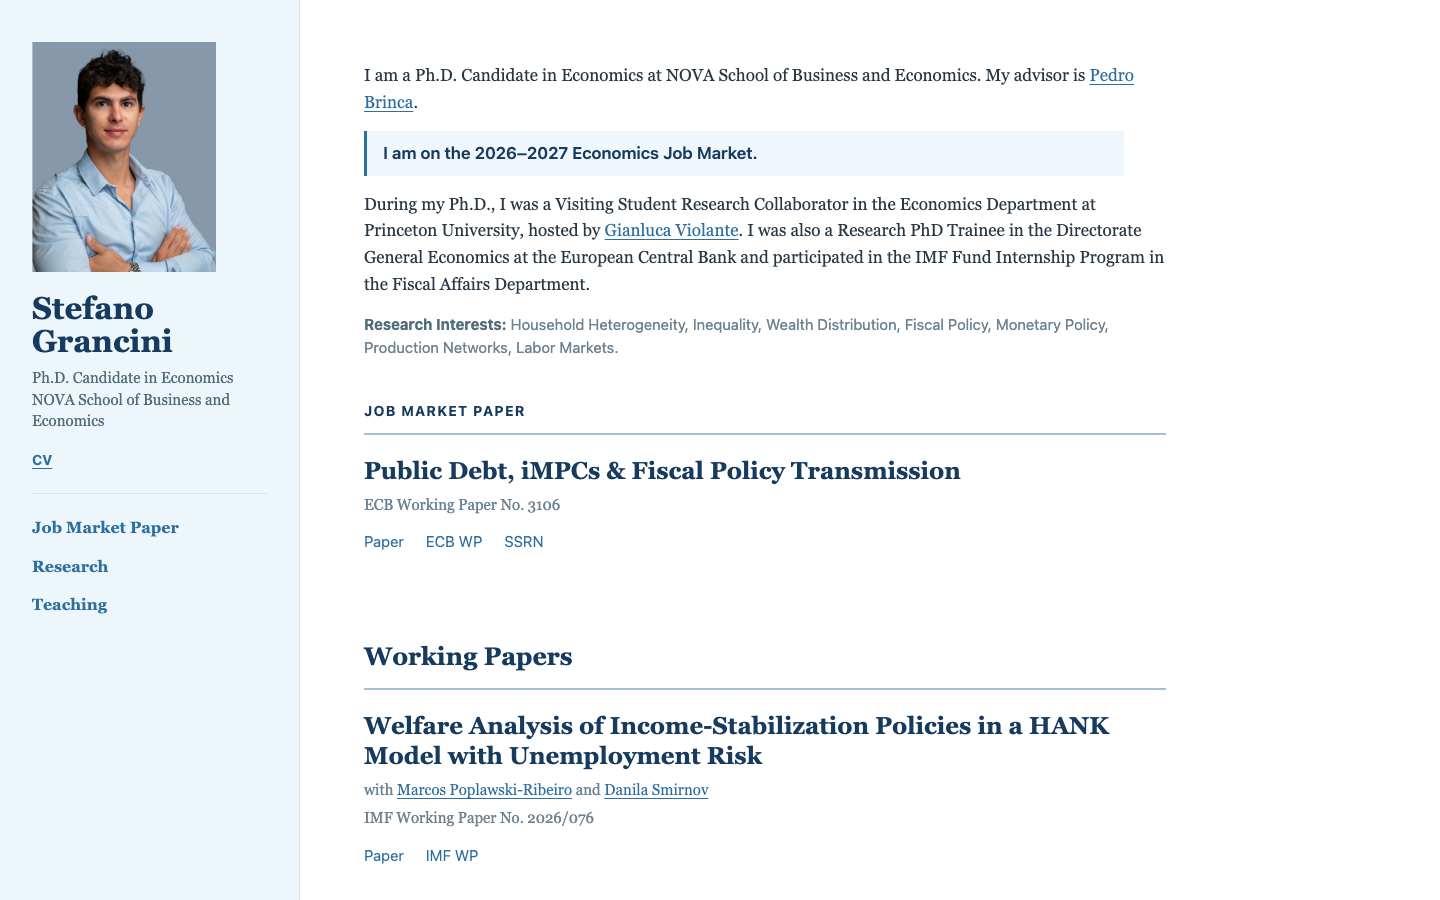
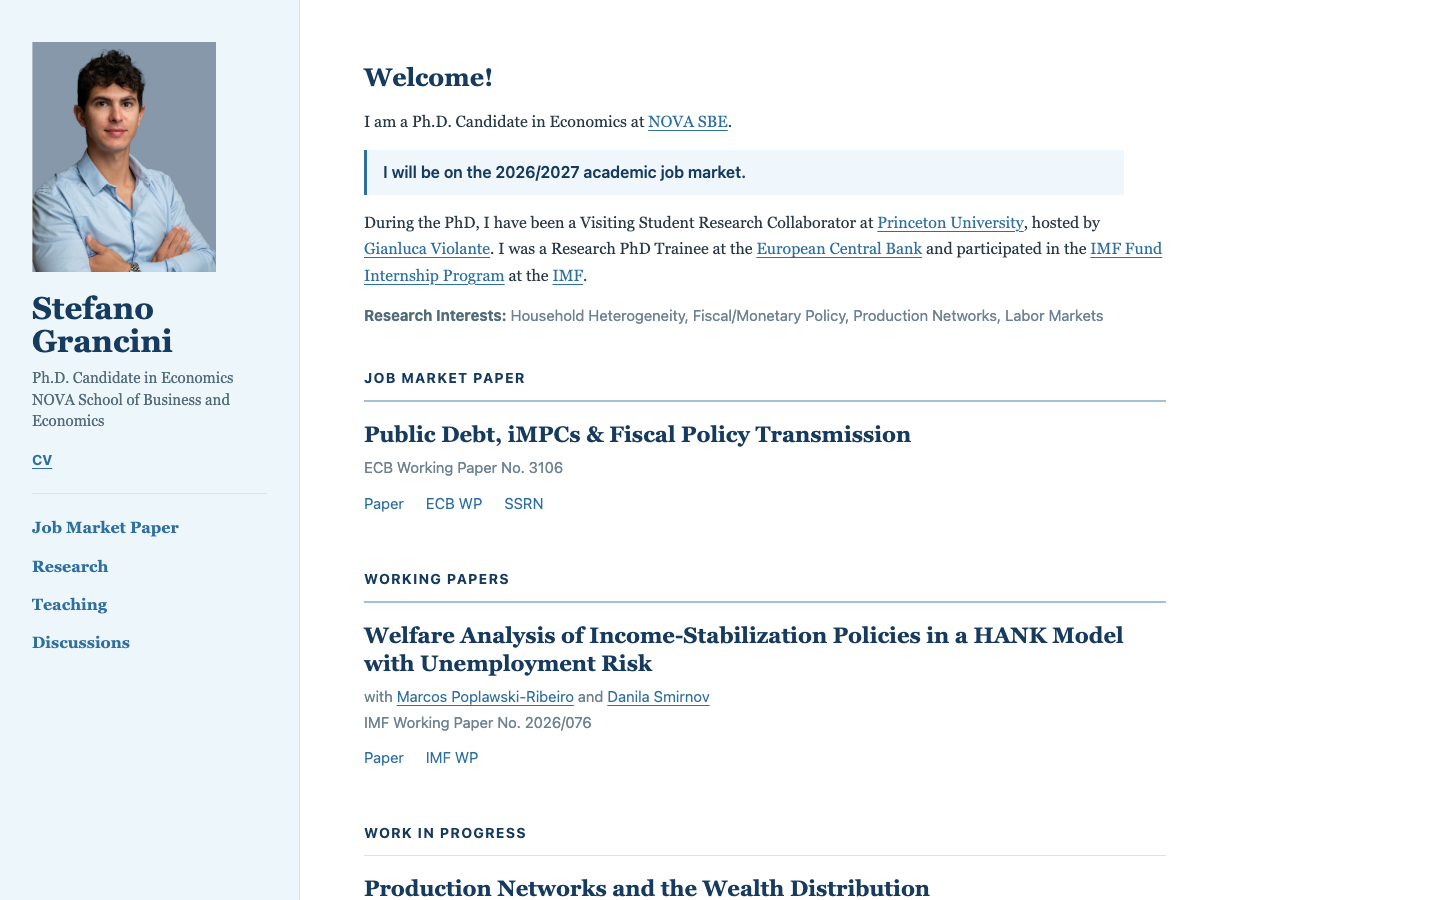
Refine typography and add discussions page

Changed region(s): [[0.25, 0.0622, 0.8125, 0.6533], [0.25, 0.6844, 0.7812, 0.9956], [0.0312, 0.6844, 0.0625, 0.7467]]

diff --git a/index.html b/index.html
@@ -17,15 +17,17 @@
         <a href="https://jmp.stefanograncini.com/paper.pdf">Job Market Paper</a>
         <a href="research/">Research</a>
         <a href="teaching/">Teaching</a>
+        <a href="discussions/">Discussions</a>
       </nav>
     </aside>
 
     <main class="content">
       <div class="intro">
-        <p>I am a Ph.D. Candidate in Economics at NOVA School of Business and Economics. My advisor is <a href="https://pedrobrinca.pt/research/">Pedro Brinca</a>.</p>
-        <p class="market">I am on the 2026–2027 Economics Job Market.</p>
-        <p>During my Ph.D., I was a Visiting Student Research Collaborator in the Economics Department at Princeton University, hosted by <a href="https://violante.economics.princeton.edu/">Gianluca Violante</a>. I was also a Research PhD Trainee in the Directorate General Economics at the European Central Bank and participated in the IMF Fund Internship Program in the Fiscal Affairs Department.</p>
-        <p class="interests"><strong>Research Interests:</strong> Household Heterogeneity, Inequality, Wealth Distribution, Fiscal Policy, Monetary Policy, Production Networks, Labor Markets.</p>
+        <h1 class="welcome-title">Welcome!</h1>
+        <p>I am a Ph.D. Candidate in Economics at <a href="https://www.novasbe.unl.pt/en/programs/phds/phd-in-economics-finance/overview">NOVA SBE</a>.</p>
+        <p class="market">I will be on the 2026/2027 academic job market.</p>
+        <p>During the PhD, I have been a Visiting Student Research Collaborator at <a href="https://www.princeton.edu/">Princeton University</a>, hosted by <a href="https://violante.economics.princeton.edu/">Gianluca Violante</a>. I was a Research PhD Trainee at the <a href="https://www.ecb.europa.eu/pub/economic-research/html/index.en.html">European Central Bank</a> and participated in the <a href="https://www.imf.org/en/About/Recruitment/working-at-the-imf/fund-internship-program">IMF Fund Internship Program</a> at the <a href="https://www.imf.org/en/Home">IMF</a>.</p>
+        <p class="interests"><strong>Research Interests:</strong> Household Heterogeneity, Fiscal/Monetary Policy, Production Networks, Labor Markets</p>
       </div>
 
       <section>
@@ -42,7 +44,7 @@
       </section>
 
       <section>
-        <h2 class="section-title">Working Papers</h2>
+        <h2 class="section-label">Working Papers</h2>
         <article class="paper">
           <h2>Welfare Analysis of Income-Stabilization Policies in a HANK Model with Unemployment Risk</h2>
           <p class="coauthors">with <a href="https://sites.google.com/site/marcospoplawskiribeiro/home">Marcos Poplawski-Ribeiro</a> and <a href="https://www.danilasmirnov.com/">Danila Smirnov</a></p>
@@ -53,7 +55,7 @@
           </div>
         </article>
 
-        <h2 class="section-title">Work in Progress</h2>
+        <h2 class="section-label">Work in Progress</h2>
         <article class="paper">
           <h2>Production Networks and the Wealth Distribution</h2>
           <p class="coauthors">with <a href="https://www.ecb.europa.eu/pub/research/authors/profiles/niccolo-battistini.en.html">Niccolò Battistini</a> and Martin Spitzer</p>
@@ -62,19 +64,13 @@
       </section>
 
       <section>
-        <h2 class="section-title">References</h2>
+        <h2 class="references-title">References</h2>
         <div class="refs">
-          <p><a href="https://pedrobrinca.pt/research/">Pedro Brinca</a> — NOVA SBE</p>
-          <p><a href="https://violante.economics.princeton.edu/">Gianluca Violante</a> — Princeton University</p>
-          <p><a href="https://scholar.google.com/citations?user=kx7wu10AAAAJ&amp;hl=it&amp;oi=ao">Davide Furceri</a> — International Monetary Fund</p>
-          <p><a href="https://jbduarte.com/">João Duarte</a> — NOVA SBE</p>
+          <p><a class="ref-name" href="https://pedrobrinca.pt/research/">Pedro Brinca</a><span class="ref-affiliation"> — NOVA SBE</span></p>
+          <p><a class="ref-name" href="https://violante.economics.princeton.edu/">Gianluca Violante</a><span class="ref-affiliation"> — Princeton University</span></p>
+          <p><a class="ref-name" href="https://scholar.google.com/citations?user=kx7wu10AAAAJ&amp;hl=it&amp;oi=ao">Davide Furceri</a><span class="ref-affiliation"> — IMF</span></p>
+          <p><a class="ref-name" href="https://jbduarte.com/">João Duarte</a><span class="ref-affiliation"> — NOVA SBE</span></p>
         </div>
-      </section>
-
-      <section class="teaching-preview">
-        <h2 class="section-title">Teaching</h2>
-        <p>Teaching Assistant at NOVA School of Business and Economics across Bachelor's and Master's courses.</p>
-        <p><a class="arrow-link" href="teaching/">Teaching <span aria-hidden="true">→</span></a></p>
       </section>
 
       <p class="contact"><a href="mailto:stefano.grancini@novasbe.pt">Contact</a></p>

diff --git a/assets/css/site.css b/assets/css/site.css
@@ -122,11 +122,17 @@ a:focus-visible {
 .intro {
   max-width: 810px;
   margin-bottom: 42px;
-  font-size: 17px;
-  line-height: 1.58;
+  font-size: 16px;
+  line-height: 1.65;
 }
 
 .intro p { margin: 0 0 15px; }
+
+.welcome-title {
+  margin: 0 0 17px;
+  color: var(--heading);
+  font: 700 25px/1.2 var(--serif);
+}
 
 .market {
   max-width: 760px;
@@ -165,8 +171,8 @@ a:focus-visible {
 }
 
 .paper {
-  margin: 0 0 33px;
-  padding: 21px 0 31px;
+  margin: 0 0 22px;
+  padding: 19px 0 21px;
   border-top: 1px solid var(--line);
 }
 
@@ -176,7 +182,7 @@ a:focus-visible {
 .teaching-entry h2 {
   margin: 0 0 7px;
   color: var(--heading);
-  font: 700 24px/1.25 var(--serif);
+  font: 700 22px/1.28 var(--serif);
 }
 
 .meta,
@@ -184,7 +190,7 @@ a:focus-visible {
 .presentations {
   margin: 3px 0;
   color: var(--muted);
-  font-size: 15px;
+  font: 15px/1.5 var(--sans);
 }
 
 .abstract {
@@ -208,45 +214,40 @@ summary {
   cursor: pointer;
 }
 
-.section-title {
-  margin: 45px 0 17px;
+.page-title {
+  margin: 0 0 17px;
+  color: var(--heading);
+  font: 700 30px/1.2 var(--serif);
+}
+
+.references-title {
+  margin: 44px 0 17px;
   color: var(--heading);
   font: 700 25px/1.2 var(--serif);
 }
 
-.page-title { margin-top: 0; font-size: 32px; }
-
 .refs {
   max-width: 680px;
-  columns: 2;
-  column-gap: 32px;
+  display: grid;
+  grid-template-columns: repeat(2, minmax(0, 1fr));
+  column-gap: 36px;
+  row-gap: 8px;
 }
 
 .refs p {
-  break-inside: avoid;
-  margin: 0 0 8px;
+  margin: 0;
 }
 
-.teaching-preview {
-  max-width: 700px;
-  margin-top: 46px;
-  padding-top: 1px;
-  border-top: 1px solid var(--line);
-}
-
-.teaching-preview .section-title { margin-top: 28px; }
-.teaching-preview p { margin: 0 0 10px; }
-.arrow-link { font-family: var(--sans); font-weight: 650; text-decoration: none; }
-.arrow-link:hover { text-decoration: underline; }
+.ref-name { font-weight: 700; }
+.ref-affiliation { color: var(--muted); font: 14px var(--sans); }
 .contact { margin: 34px 0 0; font-family: var(--sans); }
 
 .page-heading {
   margin-bottom: 32px;
 }
 
-.page-heading .section-title {
+.page-heading .page-title {
   margin: 0 0 8px;
-  font-size: 32px;
 }
 
 .page-heading p {
@@ -255,7 +256,8 @@ summary {
   font-family: var(--sans);
 }
 
-.teaching-list { max-width: 760px; }
+.teaching-list,
+.discussion-list { max-width: 760px; }
 
 .teaching-entry {
   padding: 20px 0 22px;
@@ -266,17 +268,16 @@ summary {
 
 .teaching-entry h2 { font-size: 21px; }
 
-.teaching-entry p {
+.teaching-entry p,
+.discussion-author {
   margin: 0;
   color: var(--muted);
   font: 15px/1.5 var(--sans);
 }
 
-.error-page h1 {
-  margin: 0 0 12px;
-  color: var(--heading);
-  font-size: 34px;
-}
+.discussion-list .paper { margin-bottom: 0; }
+
+.error-page .page-title { margin-bottom: 12px; }
 
 footer {
   margin-top: 45px;
@@ -315,15 +316,13 @@ footer {
   }
 
   .content { padding: 40px 28px; }
-  .intro { font-size: 17px; }
-  .paper h2 { font-size: 22px; }
-  .refs { columns: 1; }
+  .refs { grid-template-columns: 1fr; }
 }
 
 @media (max-width: 420px) {
   .rail { padding: 24px; }
   .content { padding: 34px 24px 40px; }
   .name { font-size: 29px; }
-  .section-title, .page-heading .section-title, .page-title { font-size: 28px; }
+  .page-title { font-size: 28px; }
   .market { margin-left: -4px; }
 }

diff --git a/discussions/index.html b/discussions/index.html
@@ -1,0 +1,48 @@
+<!doctype html>
+<html lang="en">
+<head>
+  <meta charset="utf-8">
+  <meta name="viewport" content="width=device-width,initial-scale=1">
+  <title>Discussions | Stefano Grancini</title>
+  <link rel="stylesheet" href="../assets/css/site.css">
+</head>
+<body>
+  <div class="site">
+    <aside class="rail">
+      <img class="portrait" src="../assets/images/stefano-grancini.png" alt="Stefano Grancini">
+      <h1 class="name"><a class="home-link" href="../">Stefano Grancini</a></h1>
+      <p class="position">Ph.D. Candidate in Economics<br>NOVA School of Business and Economics</p>
+      <a class="cv" href="../assets/documents/cv_stefano_grancini.pdf">CV</a>
+      <nav class="railnav" aria-label="Primary navigation">
+        <a href="https://jmp.stefanograncini.com/paper.pdf">Job Market Paper</a>
+        <a href="../research/">Research</a>
+        <a href="../teaching/">Teaching</a>
+        <a class="active" href="./" aria-current="page">Discussions</a>
+      </nav>
+    </aside>
+
+    <main class="content">
+      <h1 class="page-title">Discussions</h1>
+      <section class="discussion-list" aria-label="Academic discussions">
+        <article class="paper discussion-entry">
+          <h2>Minimum Corporate Taxation in Markov Perfect Equilibrium</h2>
+          <p class="discussion-author">by <a href="https://nikolajmoretti.github.io/">Nikolaj Moretti</a></p>
+          <div class="paper-links">
+            <a href="https://drive.google.com/file/d/1Uwv8bZO7YyKo6UK9kG5KLS5hPpjRLy1E/view">Paper</a>
+            <a href="https://drive.google.com/file/d/1Ycl7QSxcRa4zzsYrFEz-1FkwnbeQuXL9/view">Discussion</a>
+          </div>
+        </article>
+        <article class="paper discussion-entry">
+          <h2>How Does Potential Output respond to Macroeconomic Shocks?</h2>
+          <p class="discussion-author">by <a href="https://sites.google.com/view/giacomoporcellotti/home-page">Giacomo Porcellotti</a></p>
+          <div class="paper-links">
+            <a href="https://papers.ssrn.com/sol3/papers.cfm?abstract_id=5172622">Paper</a>
+            <a href="https://drive.google.com/file/d/1YmTap6bJchQwFi-tQ4GDjHBA3a0yIdvz/view?usp=sharing">Discussion</a>
+          </div>
+        </article>
+      </section>
+      <footer>© Stefano Grancini</footer>
+    </main>
+  </div>
+</body>
+</html>

diff --git a/research/index.html b/research/index.html
@@ -17,11 +17,12 @@
         <a href="https://jmp.stefanograncini.com/paper.pdf">Job Market Paper</a>
         <a class="active" href="./" aria-current="page">Research</a>
         <a href="../teaching/">Teaching</a>
+        <a href="../discussions/">Discussions</a>
       </nav>
     </aside>
 
     <main class="content">
-      <h1 class="section-title page-title">Research</h1>
+      <h1 class="page-title">Research</h1>
       <section>
         <p class="section-label">Job Market Paper</p>
         <article class="paper">
@@ -48,7 +49,7 @@
       </section>
 
       <section>
-        <h2 class="section-title">Working Papers</h2>
+        <h2 class="section-label">Working Papers</h2>
         <article class="paper">
           <h2>Welfare Analysis of Income-Stabilization Policies in a HANK Model with Unemployment Risk</h2>
           <p class="coauthors">with Marcos Poplawski-Ribeiro and Danila Smirnov</p>
@@ -73,7 +74,7 @@
       </section>
 
       <section>
-        <h2 class="section-title">Work in Progress</h2>
+        <h2 class="section-label">Work in Progress</h2>
         <article class="paper">
           <h2>Production Networks and the Wealth Distribution</h2>
           <p class="coauthors">with Niccolò Battistini and Martin Spitzer</p>

diff --git a/404.html b/404.html
@@ -17,11 +17,12 @@
         <a href="https://jmp.stefanograncini.com/paper.pdf">Job Market Paper</a>
         <a href="/academic-website-preview/research/">Research</a>
         <a href="/academic-website-preview/teaching/">Teaching</a>
+        <a href="/academic-website-preview/discussions/">Discussions</a>
       </nav>
     </aside>
     <main class="content error-page">
       <p class="section-label">404</p>
-      <h1>Page not found</h1>
+      <h1 class="page-title">Page not found</h1>
       <p>The requested page is not available. <a href="/academic-website-preview/">Return to the homepage.</a></p>
     </main>
   </div>

diff --git a/teaching/index.html b/teaching/index.html
@@ -17,12 +17,13 @@
         <a href="https://jmp.stefanograncini.com/paper.pdf">Job Market Paper</a>
         <a href="../research/">Research</a>
         <a class="active" href="./" aria-current="page">Teaching</a>
+        <a href="../discussions/">Discussions</a>
       </nav>
     </aside>
 
     <main class="content">
       <header class="page-heading">
-        <h1 class="section-title">Teaching</h1>
+        <h1 class="page-title">Teaching</h1>
         <p>NOVA School of Business and Economics</p>
       </header>
 

diff --git a/CONTENT_AUDIT.md b/CONTENT_AUDIT.md
@@ -1,20 +1,19 @@
 # Google Site, canonical CV, and preview audit
 
-Audit date: 2026-09-02
+Audit updated: 2026-09-02
 
-| Item | Homepage | Research | Teaching | Audit result |
-| --- | --- | --- | --- | --- |
-| Name, affiliation, advisor, 2026–2027 job market | full concise introduction | shared site identity | shared site identity | preserved |
-| Princeton / Gianluca Violante, ECB, IMF | concise introduction | — | — | preserved |
-| Research interests | full requested list | — | — | preserved |
-| Long “I study the role of micro-heterogeneity…” paragraph | omitted | — | — | omitted by instruction |
-| Public Debt, iMPCs & Fiscal Policy Transmission | title, status, Paper / ECB WP / SSRN | full abstract and presentations | — | preserved |
-| Welfare Analysis of Income-Stabilization Policies in a HANK Model with Unemployment Risk | title, coauthors, status, Paper / IMF WP | full abstract and presentations | — | preserved |
-| Production Networks and the Wealth Distribution | title, coauthors, status | presentations | — | preserved |
-| References | all four names, affiliations, and links | — | — | preserved |
-| Teaching summary | short summary and link | — | — | added as requested |
-| Complete teaching record | — | — | six individually listed assignments | restored from canonical CV |
-| Portrait | present | present | present | preserved unchanged |
-| Name links home | yes | yes | yes | also implemented on 404 |
+| Item | Homepage | Research | Teaching | Discussions | Audit result |
+| --- | --- | --- | --- | --- | --- |
+| Name and affiliation | concise introduction and shared site identity | shared site identity | shared site identity | shared site identity | preserved |
+| Princeton / Gianluca Violante, ECB, IMF | concise linked introduction | — | — | — | preserved in requested short form |
+| Research interests | requested short list | — | — | — | updated by instruction |
+| Public Debt, iMPCs & Fiscal Policy Transmission | title, status, Paper / ECB WP / SSRN | full abstract and presentations | — | — | preserved |
+| Welfare Analysis of Income-Stabilization Policies in a HANK Model with Unemployment Risk | title, coauthors, status, Paper / IMF WP | full abstract and presentations | — | — | preserved |
+| Production Networks and the Wealth Distribution | title, coauthors, status | presentations | — | — | preserved |
+| References | all four names, compact affiliations, and links | — | — | — | preserved |
+| Complete teaching record | no homepage body section | — | six individually listed assignments | — | preserved on Teaching page |
+| Academic discussions | no homepage body section | — | — | two source-matched entries | added |
+| Portrait | present | present | present | present | preserved unchanged |
+| Name links home | yes | yes | yes | yes | also implemented on 404 |
 
 Teaching source details and discrepancies are documented in `CONTENT_REVIEW.md`.

diff --git a/CONTENT_REVIEW.md b/CONTENT_REVIEW.md
@@ -28,7 +28,8 @@ Secondary source: current Google Site teaching page, `https://sites.google.com/v
 
 ## Preservation scope
 
-- Homepage biography retains NOVA SBE, Pedro Brinca, 2026–2027 job-market status, Princeton and Gianluca Violante, ECB, IMF, and the full requested research-interest list. The former long “I study the role of micro-heterogeneity…” paragraph remains omitted by instruction.
+- Homepage biography uses the requested short version with linked NOVA SBE, Princeton University, Gianluca Violante, ECB, IMF Fund Internship Program, and IMF references. Pedro Brinca, Inequality, and Wealth Distribution were removed from the homepage introduction by instruction.
 - Homepage research retains the JMP, ECB Working Paper No. 3106, Paper / ECB WP / SSRN links, the IMF paper and Working Paper No. 2026/076, and Production Networks paper. No homepage abstracts were added.
 - The research page retains all three research entries, abstracts where previously present, and complete previously implemented presentation expanders.
-- All four linked references and the existing portrait are retained.
+- All four linked references and the existing portrait are retained. The homepage Teaching body section was removed by instruction; the complete Teaching page remains.
+- The Discussions page reproduces the two titles, authors, and Paper / Discussion links from the current Google Discussions page without added summaries.
